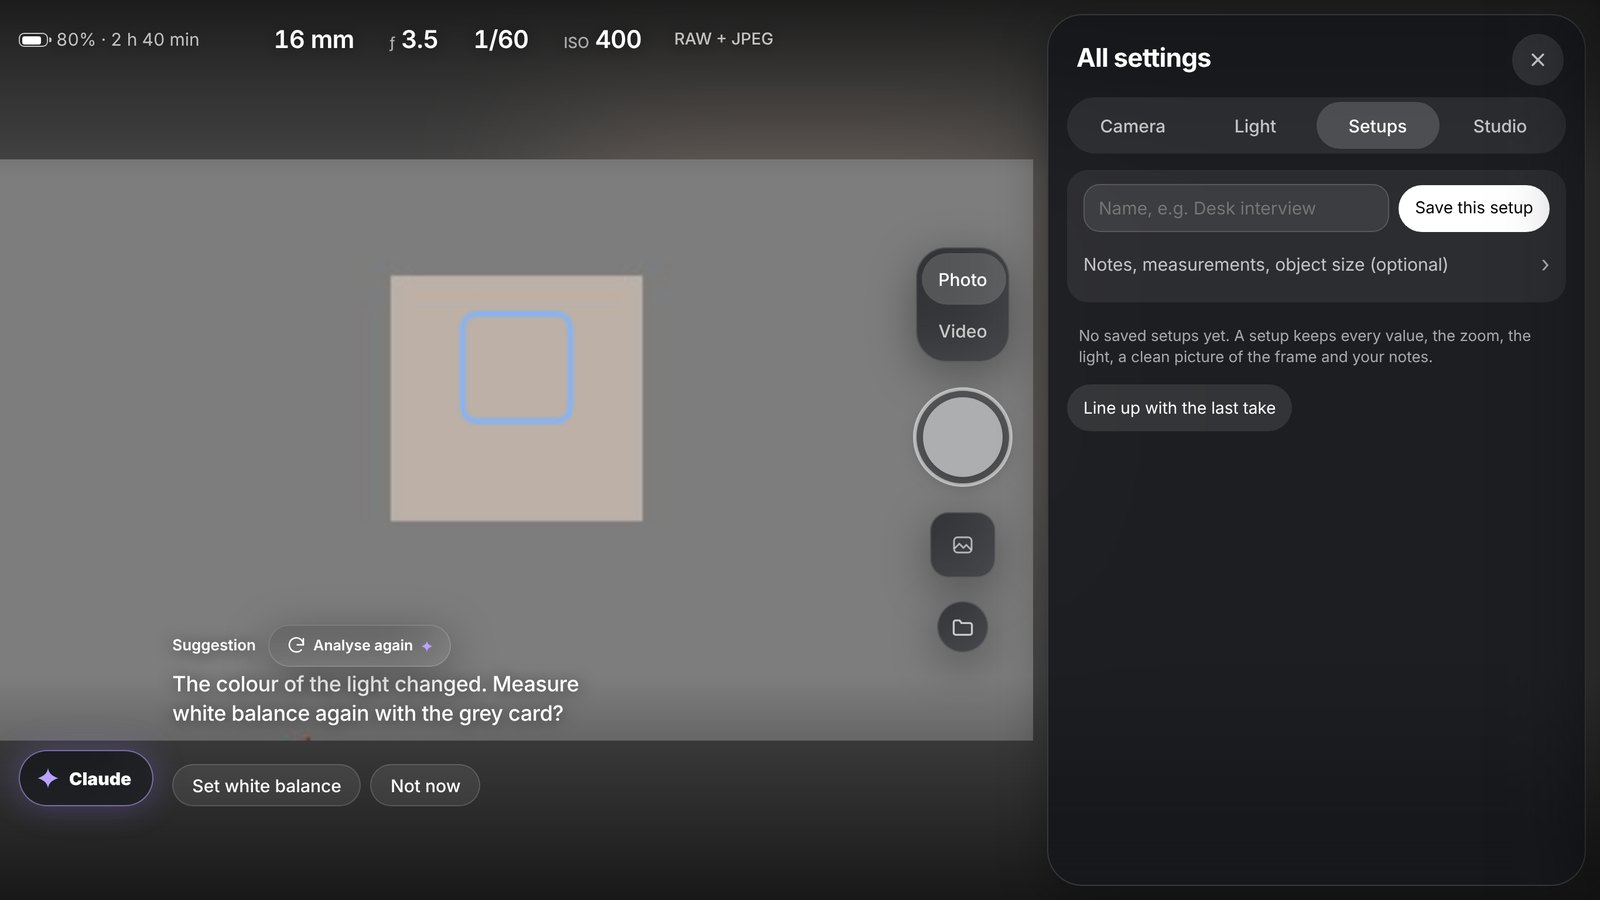
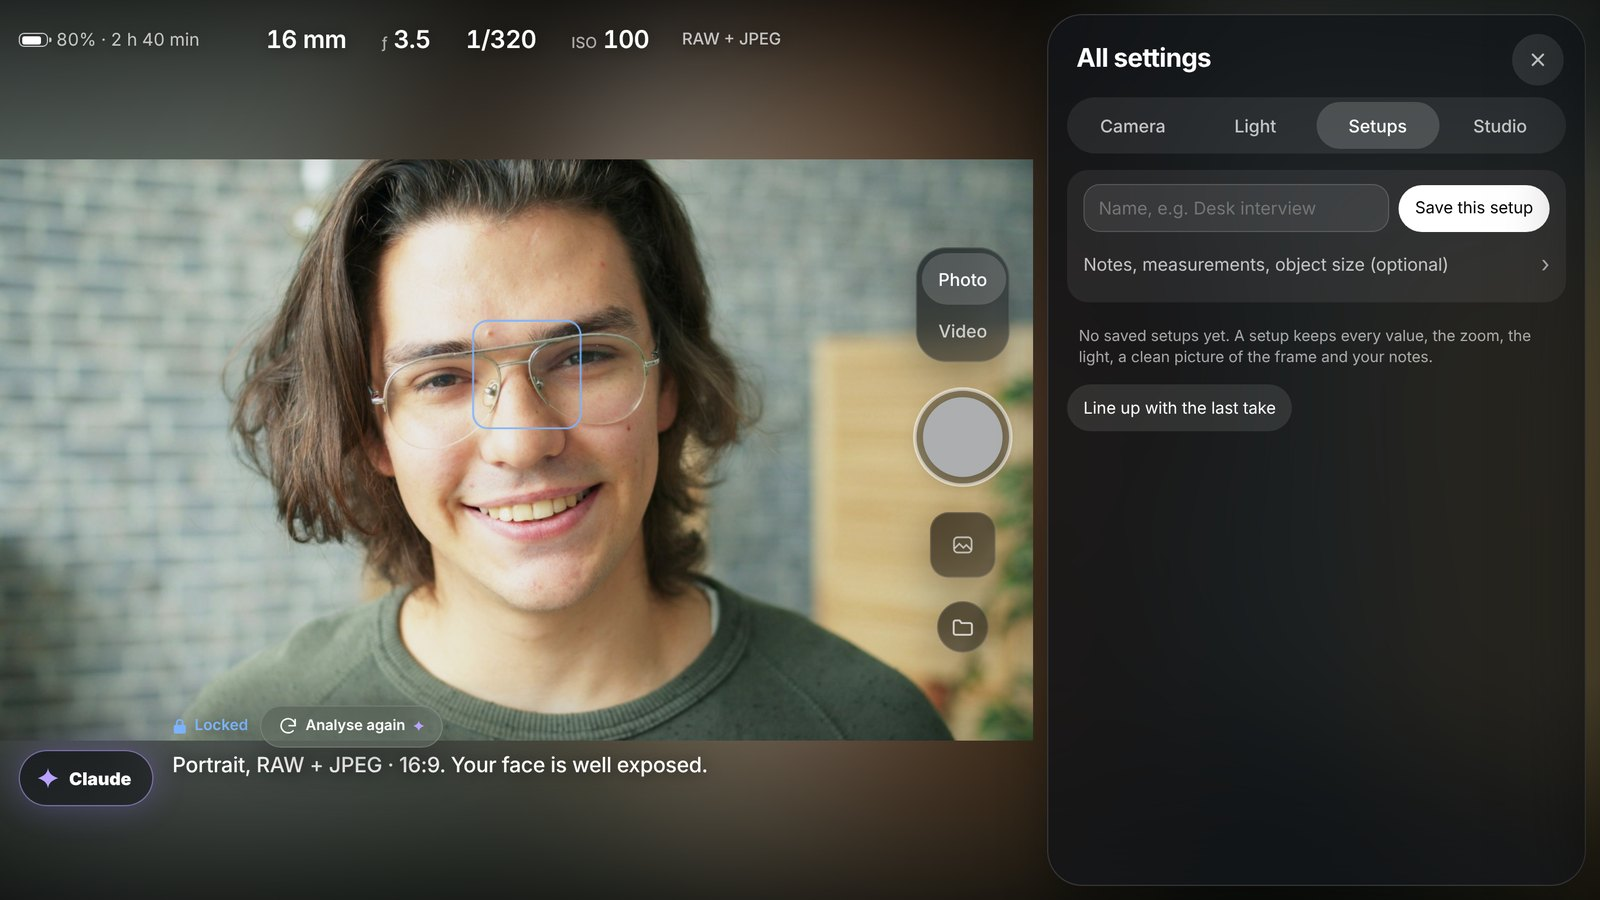
New cover and guide pictures with an example photo
The README opens with a designed cover (main screen on the laptop and on an
iPad). All guide pictures are retaken on the simulator with a free stock
photo (Vitaly Gariev on Unsplash, Unsplash License) in the place of the
grey test card, so the screens look like real use. The photo is credited in
the README and the guide; publish.py names the new cover on its allow-list.

Claude-Session: https://claude.ai/code/session_013GxCvgcNCaAZ6czGJ1dDvg

diff --git a/tools/publish.py b/tools/publish.py
@@ -30,10 +30,11 @@ INCLUDE = [
 ]
 NEVER = re.compile(r"(\.bak$|\.r\d+\.bak$|__pycache__|\.pyc$|/logs/|/captures/|AUDIT\.md|publish_list\.txt|\.log$)", re.I)
 IMAGES_OK = {"tests/data/lineup_ref.jpg", "camctl/assets/studio.ico"}     # a generated picture and the app icon
-# the visual guide's pictures (docs/img): screenshots of the SIMULATOR only (the drawn test card, never a camera frame),
-# each one named here so that no other picture can slip in
+# the visual guide's pictures (docs/img): screenshots of the SIMULATOR only, never a camera frame. The person in them is
+# a free stock photo (Vitaly Gariev on Unsplash, Unsplash License) put in the place of the simulator's test card.
+# Each picture is named here so that no other picture can slip in
 GUIDE_PICS = (
-    "claude", "claude-answer", "focus-stack", "getting-ready", "ipad", "iso", "looks", "main", "main-numbered",
+    "claude", "claude-answer", "cover", "focus-stack", "getting-ready", "ipad", "iso", "looks", "main", "main-numbered",
     "more", "photo-review", "photo-viewer", "playground", "recording", "settings-camera", "settings-format",
     "settings-light", "settings-setups", "shoot-handoff", "shot", "sound-check", "special-shots", "teleprompter",
     "video", "white-balance",

diff --git a/docs/guide.md b/docs/guide.md
@@ -2,9 +2,10 @@
 
 How to use Studio, screen by screen. For installing it, see the [README](../README.md#install).
 
-> The screenshots come from Studio's built-in simulator, so the picture in the middle is a drawn test card. With your
-> camera connected you see its live picture there. Claude's answers in the screenshots are made up by the simulator and
-> say so.
+> The screenshots come from Studio's built-in simulator. The person in them is an example photo (by
+> [Vitaly Gariev on Unsplash](https://unsplash.com/photos/young-man-with-glasses-smiles-at-the-camera-xhQUcSQpotU))
+> standing in for the camera's picture; with your camera connected you see its live picture there. Claude's answers in
+> the screenshots are made up by the simulator and say so.
 
 **Contents**
 
@@ -38,8 +39,8 @@ Switch the camera on, connect it by USB cable or Wi-Fi, and start Studio (`tools
   **Continue without Claude**. Without a key you still have Studio's own setup, focus, zoom, shooting and the special
   shots.
 
-No camera at hand? `python tools/sim_studio.py` starts Studio on a simulated camera, which is how these pictures were
-made.
+No camera at hand? `python tools/sim_studio.py` starts Studio on a simulated camera. Its picture is a plain drawn test
+card; for this guide the example photo was put in its place.
 
 ## 2. The main screen
 
@@ -69,10 +70,12 @@ When the camera connects, Studio looks at the picture, measures the light, and s
 the file format the way a photographer would for this kind of shot. Then it **locks**: the status line shows a blue
 lock and the reason for the choice.
 
+![The main screen, set up and locked](img/main.jpg)
+
 After that nothing changes by itself. If the light changes, Studio only suggests something, and waits for your tap:
 you see the suggestion next to the Claude button with its buttons below.
 
-Tap the shot pill (here **Low light**) to tell Studio what you are shooting. It marks the kind of shot it sees itself.
+Tap the shot pill (here **Portrait**) to tell Studio what you are shooting. It marks the kind of shot it sees itself.
 
 ![What are you shooting: portrait, interview, product, daylight, low light](img/shot.jpg)
 

diff --git a/README.md b/README.md
@@ -7,7 +7,11 @@ what is in front of it: talking-head video, shorts, photos and video calls. Stud
 looks at the picture, measures the light, sets exposure, focus, white balance and the file format, and then **locks**
 everything. After that nothing changes by itself; you decide when something changes.
 
-![The main screen of camctl Studio](docs/img/main.jpg)
+![camctl Studio: the main screen on the laptop, and on an iPad as a second screen](docs/img/cover.jpg)
+
+<sub>The screens come from Studio's built-in simulator. The person is an example photo by
+[Vitaly Gariev on Unsplash](https://unsplash.com/photos/young-man-with-glasses-smiles-at-the-camera-xhQUcSQpotU),
+standing in for the camera's picture.</sub>
 
 **New here?** The [visual guide](docs/guide.md) shows every screen and how to use it, step by step.
 
